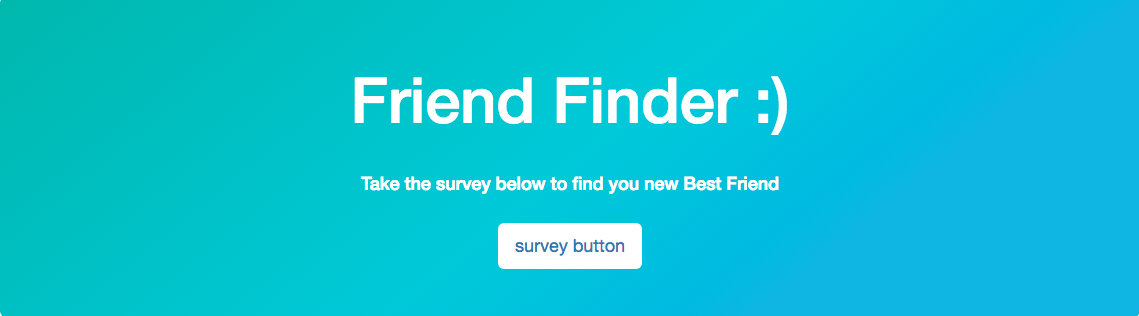
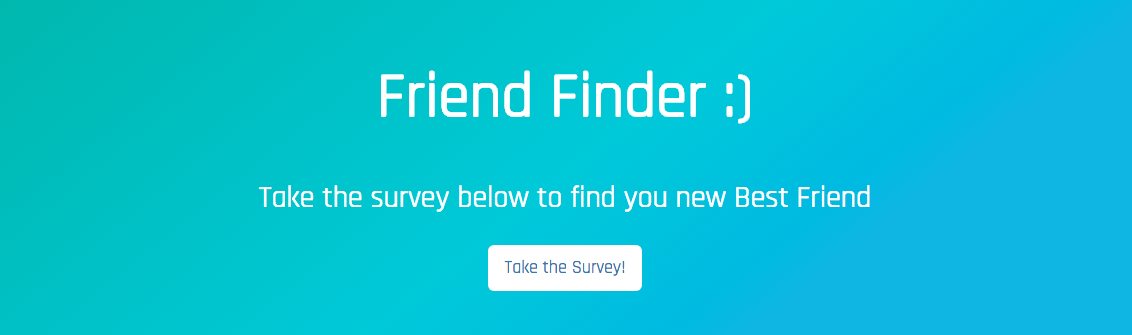
added changes to markdown

Changed region(s): [[0.3092, 0.1994, 0.7111, 0.4272], [0.2164, 0.5411, 0.773, 0.6266], [0.4329, 0.6835, 0.5875, 0.8829]]

diff --git a/app/public/survey.html b/app/public/survey.html
@@ -9,6 +9,25 @@
   <script src="https://code.jquery.com/jquery.js"></script>
   <script src="https://maxcdn.bootstrapcdn.com/bootstrap/3.3.6/js/bootstrap.min.js" integrity="sha384-0mSbJDEHialfmuBBQP6A4Qrprq5OVfW37PRR3j5ELqxss1yVqOtnepnHVP9aJ7xS" crossorigin="anonymous"></script>
   <script src="https://cdnjs.cloudflare.com/ajax/libs/chosen/1.5.1/chosen.jquery.min.js"></script>
+  <!--Google Fonts-->
+  <link href="https://fonts.googleapis.com/css?family=Abril+Fatface|Rajdhani" rel="stylesheet">
+
+<style>
+  body {
+    font-family: 'Rajdhani', sans-serif;
+    font-weight:bold;
+  }
+.jumbotron {
+    background: linear-gradient(141deg, #0fb8ad 0%, #1fc8db 51%, #2cb5e8 75%);
+    color: white;
+    text-align: center;
+  }
+  .page-footer {
+    color: white;
+    text-align: center;
+  }
+
+</style>
 
 
 </head>
@@ -16,19 +35,19 @@
 <body>
   <div class= "container">
     <div class="jumbotron">
-      <h2>Survey Questions</h2>
+      <h1>Survey Questions</h1>
     </div>
 
     <div class="panel panel-default">
       <div class="panel-heading">
-        <h3 class="panel-title">About You</h3>
+        <h3 class="panel-title">A little bit about you</h3>
       </div>
       <div class="panel-body">
-        <strong>Name (Required)</strong>
+        <strong>Please tell us your name (Required)</strong>
         <input type="text" name="" class="form-control" id="name" required>
 <br>
 <br>
-        <strong>Link to Photo Image (Required)</strong>
+        <strong>Please link your photo link (Required)</strong>
         <input type="text" name="" class="form-control" id="photo" required>
       </div>
     </div>
@@ -41,7 +60,7 @@
         <option value=""></option>
         <option value="1">1 Strongly Agree</option>
         <option value="2">2</option>
-        <option value="3">3</option>
+        <option value="3">3 Neither agree nor disagree</option>
         <option value="4">4</option>
         <option value="4">5 Strongly Disagree</option>
       </select>       
@@ -49,105 +68,118 @@
       <h4>Question 2</h4>
       <h5>Generally speaking, you rely more on your experience than your imagination.</h5> 
         <select data-placeholder="" class="answerChosen" id="q2">
-          <option value=""></option>
-          <option value="1">1 Strongly Agree</option>
-          <option value="2">2</option>
-          <option value="3">3</option>
-          <option value="4">4</option>
-          <option value="4">5 Strongly Disagree</option>
+        <option value=""></option>
+        <option value="1">1 Strongly Agree</option>
+        <option value="2">2</option>
+        <option value="3">3 Neither agree nor disagree</option>
+        <option value="4">4</option>
+        <option value="4">5 Strongly Disagree</option>
         </select>
         <br>
         <h4>Question 3</h4>
     <h5>You find it easy to stay relaxed and focused even when there is some pressure.</h5> 
       <select data-placeholder="" class="answerChosen" id="q3">
         <option value=""></option>
-        <option value="1">1. Strongly Agree</option>
-        <option value="2">2.</option>
-        <option value="3">3.</option>
-        <option value="4">4. Strongly Disagree</option>
+        <option value="1">1 Strongly Agree</option>
+        <option value="2">2</option>
+        <option value="3">3 Neither agree nor disagree</option>
+        <option value="4">4</option>
+        <option value="4">5 Strongly Disagree</option>
       </select>
       <br>
       <h4>Question 4</h4>
     <h5>You rarely do something just out of sheer curiosity.</h5> 
       <select data-placeholder="" class="answerChosen" id="q4">
         <option value=""></option>
-        <option value="1">1. Strongly Agree</option>
-        <option value="2">2.</option>
-        <option value="3">3.</option>
-        <option value="4">4. Strongly Disagree</option>
+        <option value="1">1 Strongly Agree</option>
+        <option value="2">2</option>
+        <option value="3">3 Neither agree nor disagree</option>
+        <option value="4">4</option>
+        <option value="4">5 Strongly Disagree</option>
       </select>
       <br>
       <h4>Question 5</h4>
     <h5>People can rarely upset you.</h5> 
       <select data-placeholder="" class="answerChosen" id="q5">
         <option value=""></option>
-        <option value="1">1. Strongly Agree</option>
-        <option value="2">2.</option>
-        <option value="3">3.</option>
-        <option value="4">4. Strongly Disagree</option>
+        <option value="1">1 Strongly Agree</option>
+        <option value="2">2</option>
+        <option value="3">3 Neither agree nor disagree</option>
+        <option value="4">4</option>
+        <option value="4">5 Strongly Disagree</option>
       </select>
       <br>
       <h4>Question 6</h4>
     <h5>It is often difficult for you to relate to other people’s feelings.</h5> 
       <select data-placeholder="" class="answerChosen" id="q6">
         <option value=""></option>
-        <option value="1">1. Strongly Agree</option>
-        <option value="2">2.</option>
-        <option value="3">3.</option>
-        <option value="4">4. Strongly Disagree</option>
+        <option value="1">1 Strongly Agree</option>
+        <option value="2">2</option>
+        <option value="3">3 Neither agree nor disagree</option>
+        <option value="4">4</option>
+        <option value="4">5 Strongly Disagree</option>
       </select>
       <br>
       <h4>Question 7</h4>
     <h5>In a discussion, truth should be more important than people’s sensitivities.</h5> 
       <select data-placeholder="" class="answerChosen" id="q7">
         <option value=""></option>
-        <option value="1">1. Strongly Agree</option>
-        <option value="2">2.</option>
-        <option value="3">3.</option>
-        <option value="4">4. Strongly Disagree</option>
+        <option value="1">1 Strongly Agree</option>
+        <option value="2">2</option>
+        <option value="3">3 Neither agree nor disagree</option>
+        <option value="4">4</option>
+        <option value="4">5 Strongly Disagree</option>
       </select>
       <br>
       <h4>Question 8</h4>
     <h5>You rarely get carried away by fantasies and ideas.</h5> 
       <select data-placeholder="" class="answerChosen" id="q8">
         <option value=""></option>
-        <option value="1">1. Strongly Agree</option>
-        <option value="2">2.</option>
-        <option value="3">3.</option>
-        <option value="4">4. Strongly Disagree</option>
+        <option value="1">1 Strongly Agree</option>
+        <option value="2">2</option>
+        <option value="3">3 Neither agree nor disagree</option>
+        <option value="4">4</option>
+        <option value="4">5 Strongly Disagree</option>
       </select>
       <br>
       <h4>Question 9</h4>
     <h5>You think that everyone’s views should be respected regardless of whether they are supported by facts or not.</h5> 
       <select data-placeholder="" class="answerChosen" id="q9">
         <option value=""></option>
-        <option value="1">1. Strongly Agree</option>
-        <option value="2">2.</option>
-        <option value="3">3.</option>
-        <option value="4">4. Strongly Disagree</option>
+        <option value="1">1 Strongly Agree</option>
+        <option value="2">2</option>
+        <option value="3">3 Neither agree nor disagree</option>
+        <option value="4">4</option>
+        <option value="4">5 Strongly Disagree</option>
       </select>
       <br>
       <h4>Question 10</h4>
         <h5>You feel more energetic after spending time with a group of people.</h4> 
           <select data-placeholder="" class="answerChosen" id="q10">
             <option value=""></option>
-            <option value="1">1. Strongly Agree</option>
-            <option value="2">2.</option>
-            <option value="3">3.</option>
-            <option value="4">4. Strongly Disagree</option>
+            <option value="1">1 Strongly Agree</option>
+            <option value="2">2</option>
+            <option value="3">3 Neither agree nor disagree</option>
+            <option value="4">4</option>
+            <option value="4">5 Strongly Disagree</option>
           </select>
-
+      <br>
       <br>
     <!-- Submit Button -->
       <button type="submit" class="btn btn-primary btn-lg btn-block" id="submit"><i class="fa fa-check-circle" aria-hidden="true"></i>Submit</button>
     </div>
 
+    <br>
+    <br>
+
     <footer class = "page-footer">
         <div class="container">
-          <a href="/api/friends"><button class="btn btn-info btn-md">API Friends List</button></a>
-          <a href="https://github.com/KSolorio/FriendFinder"><button class ="btn btn-info btn-md">Git Hub Repo</button></a> 
+          <a href="/api/friends"><button class="btn btn-info btn-lg">API Friends List</button></a>
+          <a href="https://github.com/KSolorio/FriendFinder"><button class ="btn btn-info btn-lg">Git Hub Repo</button></a> 
         </div>
       </footer>
+      <br>
+      <br>
 
     <!-- Modal -->
     <div style="text-align:center;" id="resultsModal" class="modal fade" role="dialog">

diff --git a/app/public/home.html b/app/public/home.html
@@ -12,7 +12,14 @@
   <script src="https://code.jquery.com/jquery.js"></script>
   <script src="https://maxcdn.bootstrapcdn.com/bootstrap/3.3.6/js/bootstrap.min.js" integrity="sha384-0mSbJDEHialfmuBBQP6A4Qrprq5OVfW37PRR3j5ELqxss1yVqOtnepnHVP9aJ7xS" crossorigin="anonymous"></script>
   <script src="https://cdnjs.cloudflare.com/ajax/libs/chosen/1.5.1/chosen.jquery.min.js"></script>
+  <!--Google Fonts-->
+  <link href="https://fonts.googleapis.com/css?family=Abril+Fatface|Rajdhani" rel="stylesheet">
+
   <style>
+    body {
+    font-family: 'Rajdhani', sans-serif;
+    font-weight:bold;
+  }
   .jumbotron {
     background: linear-gradient(141deg, #0fb8ad 0%, #1fc8db 51%, #2cb5e8 75%);
     color: white;
@@ -22,7 +29,6 @@
     color: white;
     text-align: center;
   }
-  
   </style>
 
 
@@ -31,19 +37,19 @@
 <body>
 <div class="container">
   <div class="jumbotron">
-    <h1 style="text-align:center;">Friend Finder :)</h1>
+    <h1 style="text-align:center;"><strong>Friend Finder :)</strong></h1>
     <br>
-    <h4>Take the survey below to find you new Best Friend</h4>
+    <h2>Take the survey below to find you new Best Friend</h2>
     <br>
       <div style="text-align:center;">
-        <a id="survey-button" href="/survey"><button class="btn btn-light btn-lg">survey button</button></a> 
+        <a id="survey-button" href="/survey"><button class="btn btn-light btn-lg">Take the Survey!</button></a> 
       </div>
   </div>
 
 <footer class = "page-footer">
   <div class="container">
-    <a href="/api/friends"><button class="btn btn-info btn-md">API Friends List</button></a>
-    <a href="https://github.com/KSolorio/FriendFinder"><button class ="btn btn-info btn-md">Git Hub Repo</button></a> 
+    <a href="/api/friends"><button class="btn btn-info btn-lg">API Friends List</button></a>
+    <a href="https://github.com/KSolorio/FriendFinder"><button class ="btn btn-info btn-lg">Git Hub Repo</button></a> 
   </div>
 </footer>
 

diff --git a/README.md b/README.md
@@ -1,6 +1,4 @@
 # Welcome To FriendFinder 
-### Where we find you your perfect FRIEND! :D
-
 ![FriendFinder banner](./app/images/banner.png)
 
 Node packages used:
@@ -25,6 +23,6 @@ After completing you will be matched with the best matched friend
 
 ![modal](./app/images/modal.png)
 
-You will then be added to the friends array which can be viewed at `/api/friends' or by clicking the link
+You will then be added to the friends array which can be viewed at `/api/friends` or by clicking the link
 
 ![buttons](./app/images/buttons.png)
